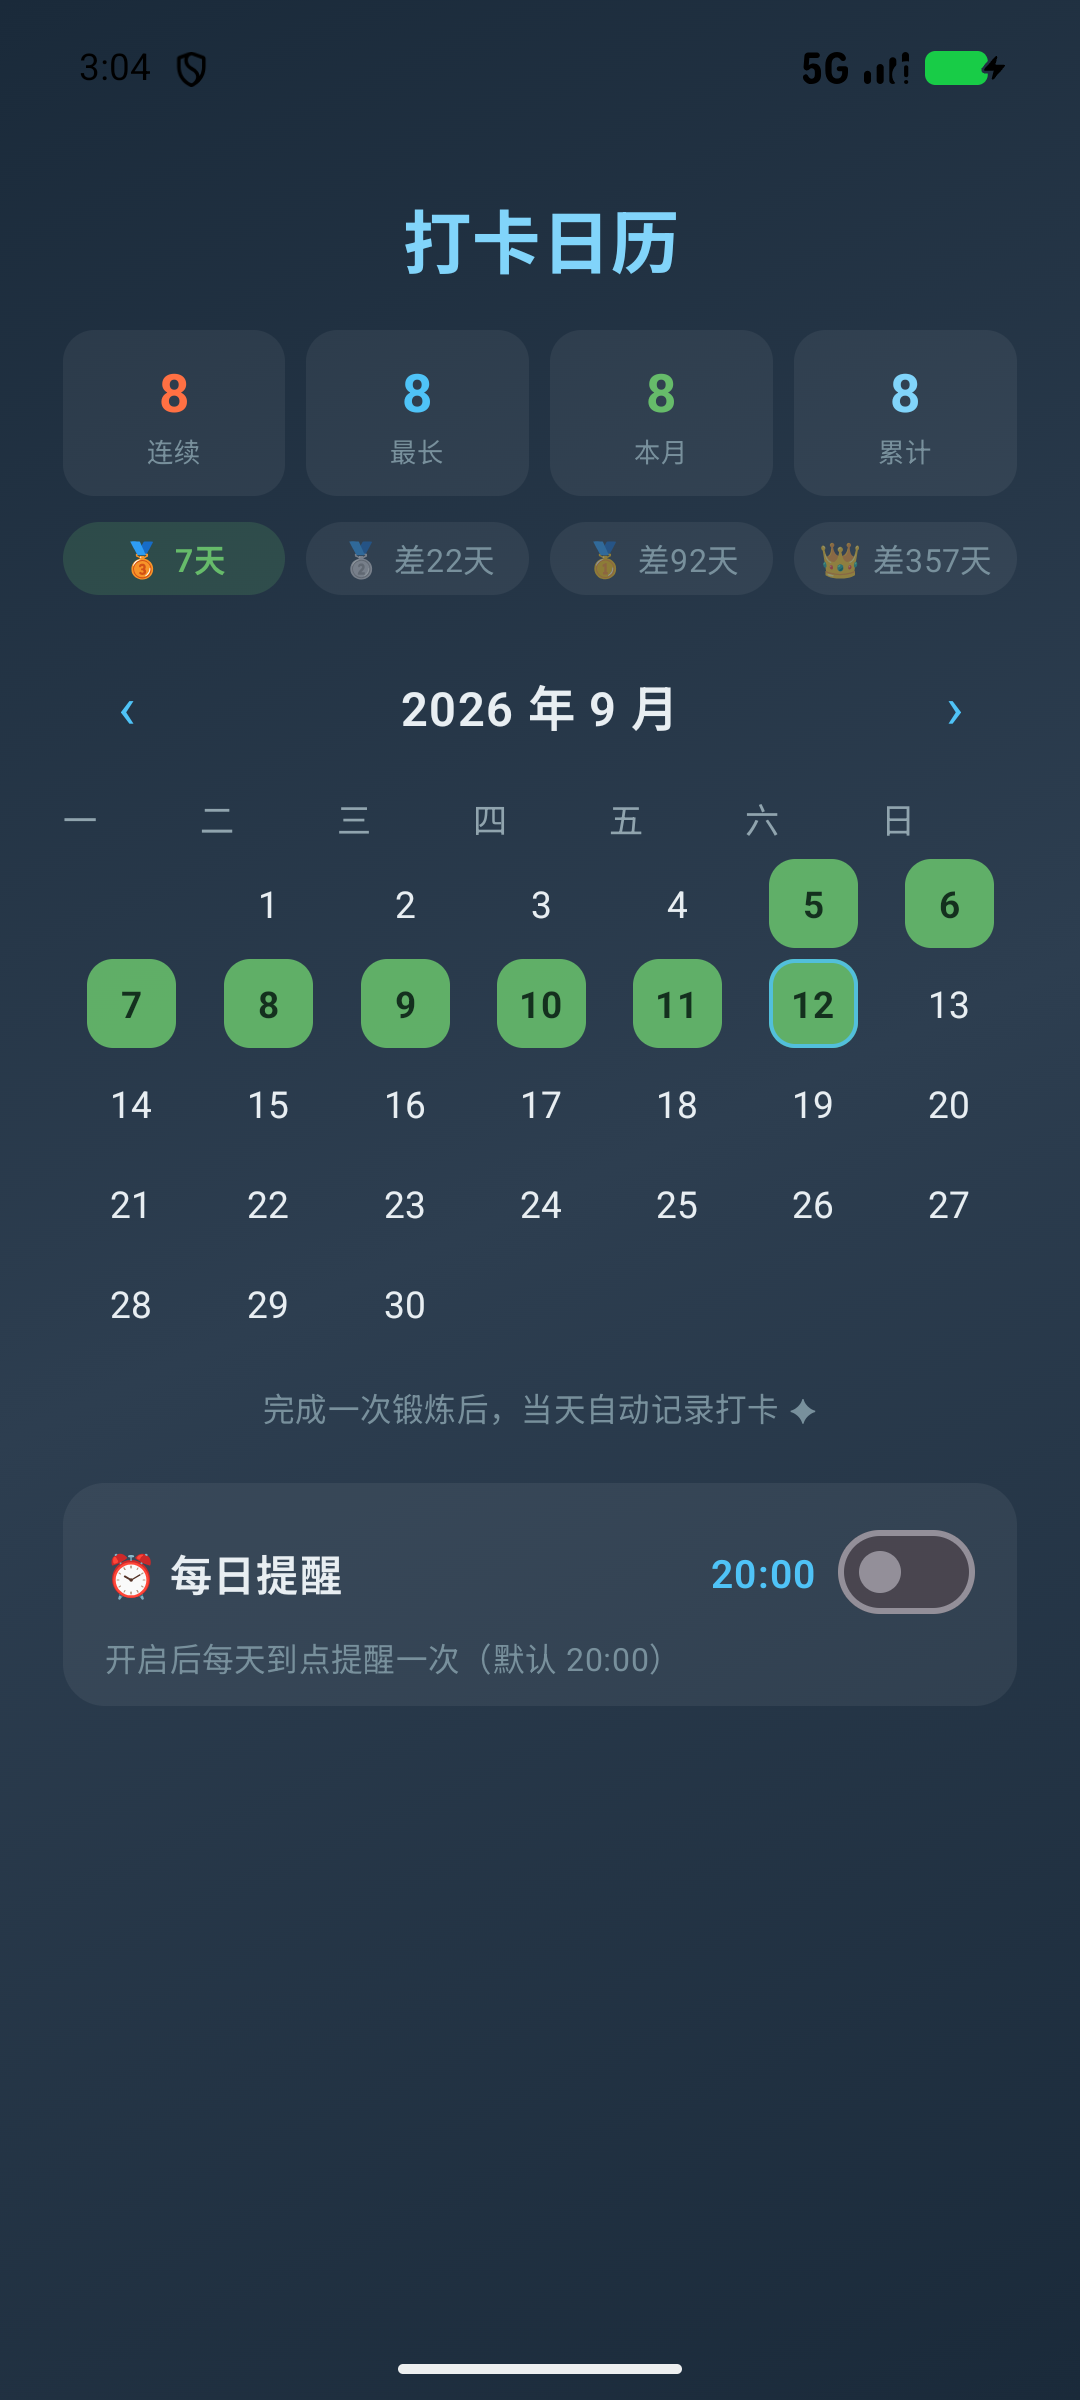
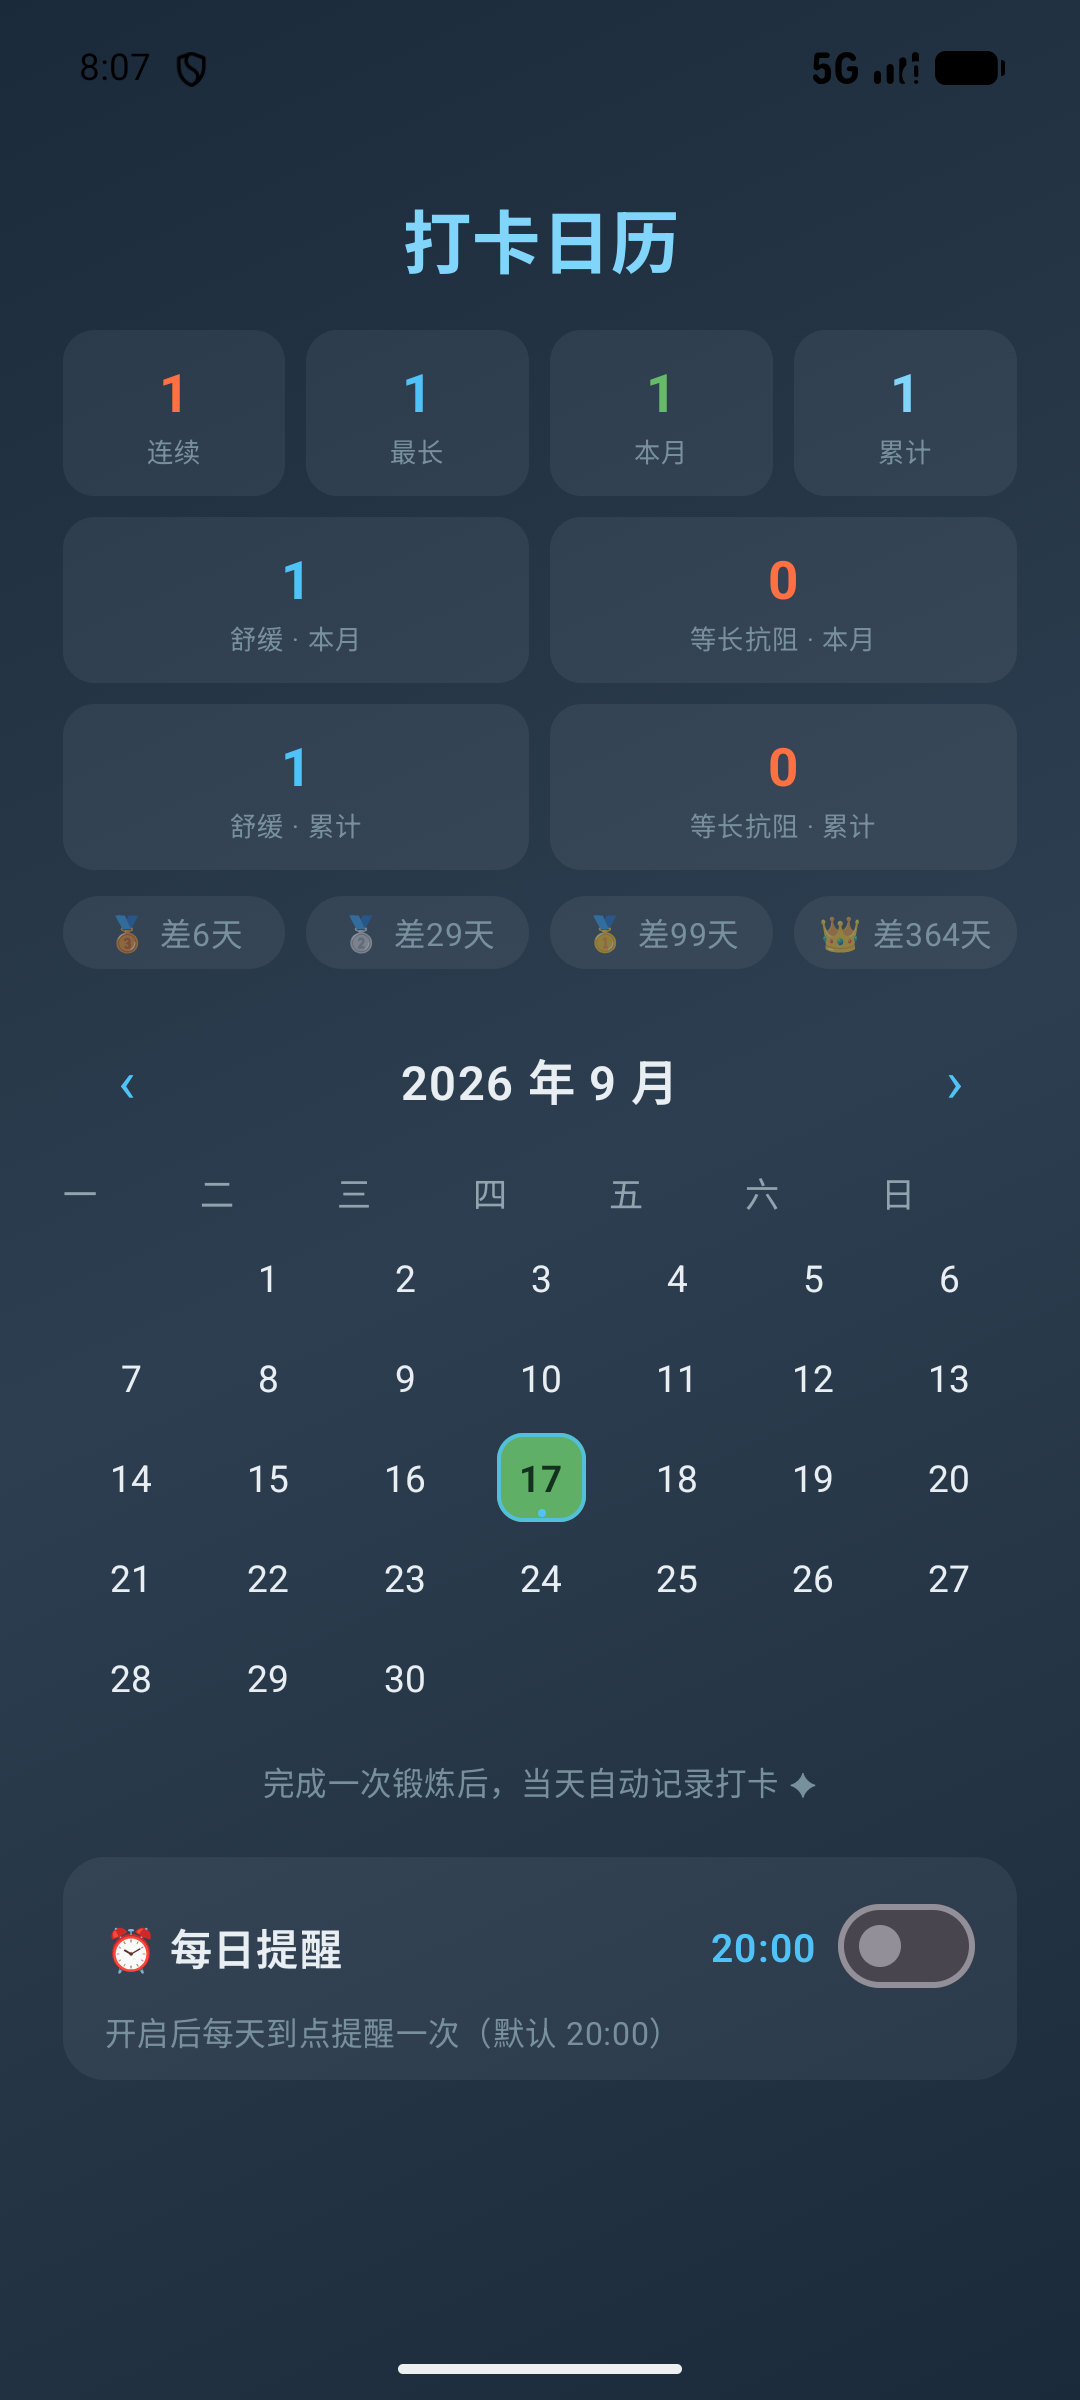
docs(shots): 截图全面更新——中/英双语两套 + README_EN 引用英文图 + CHANGELOG 补 1.9.2
- screenshots/ 重抓 4 张中文图（新布局居中加宽、右手开始、菜单含语言项、日历含打卡数据）
- 新增 4 张英文图（*_en.png），README_EN.md 截图引用切换为英文版
- CHANGELOG 补 [1.9.2]：i18n / 打卡按模式统计 v2 / 右手开始 / 首页布局 / 测试 63 例
- 截图由模拟器 uiautomator 驱动实抓：完成一次舒缓锻炼产生真实打卡数据，视觉校验 8/8 通过

diff --git a/CHANGELOG.md b/CHANGELOG.md
@@ -2,6 +2,20 @@
 
 本项目的版本发布记录。日期以 APK 打包日为准。
 
+## [1.9.2] - 2026-09-17
+
+### 新增
+
+- **中英双语（i18n）**：界面与语音播报支持中文/English——默认跟随系统语言，⋮ 菜单「语言」可手动切换并记忆；`L10n.kt`（Strings 中/英双套 + 阶段/方向名查表本地化）+ `L10nStore.kt`（auto/zh/en 持久化）；UI/弹窗/引擎播报/锻炼要点/通知/TTS（zh-CN / en-US）全链路覆盖。
+- **打卡按模式统计 v2**：`CheckInLog` 每天携带模式位掩码（`v2:base36` 序列化，v1 旧数据兼容解析）；日历新增分模式计数行（本月 + 累计）与打卡格模式小圆点（青=舒缓、橙=等长抗阻，双 done 双点）。
+- **英文版 `README_EN.md`**（与中文版互链）；界面截图更新为中/英两套。
+
+### 变更
+
+- **舒缓锻炼改为右手开始**（原左手先），三处 JSON 配置同步。
+- **首页布局**：模式卡 + 打卡日历行改为在标题与页脚间垂直居中（上下等重 weight），两侧留白 24→16dp——修复内容堆积在屏幕上半部、下方 43% 空白的问题（uiautomator 实测卡片块 29%–52% → 45%–67%）。
+- 通知文案与渠道名随应用语言；`Model.tips` 并入 `L10n`；单元测试 48 → 63 例（新增 `L10nTest`）；版本 1.2(3) → 1.9.2(12)。
+
 ## [1.2] - 2026-09-12
 
 ### 修复

diff --git a/README_EN.md b/README_EN.md
@@ -10,11 +10,11 @@
 
 | Home | Workout |
 |:---:|:---:|
-| ![Home](screenshots/home.png) | ![Workout](screenshots/timer.png) |
+| ![Home](screenshots/home_en.png) | ![Workout](screenshots/timer_en.png) |
 
 | Check-in Calendar | Menu |
 |:---:|:---:|
-| ![Calendar](screenshots/calendar.png) | ![Menu](screenshots/menu.png) |
+| ![Calendar](screenshots/calendar_en.png) | ![Menu](screenshots/menu_en.png) |
 
 ## ✨ Features
 
